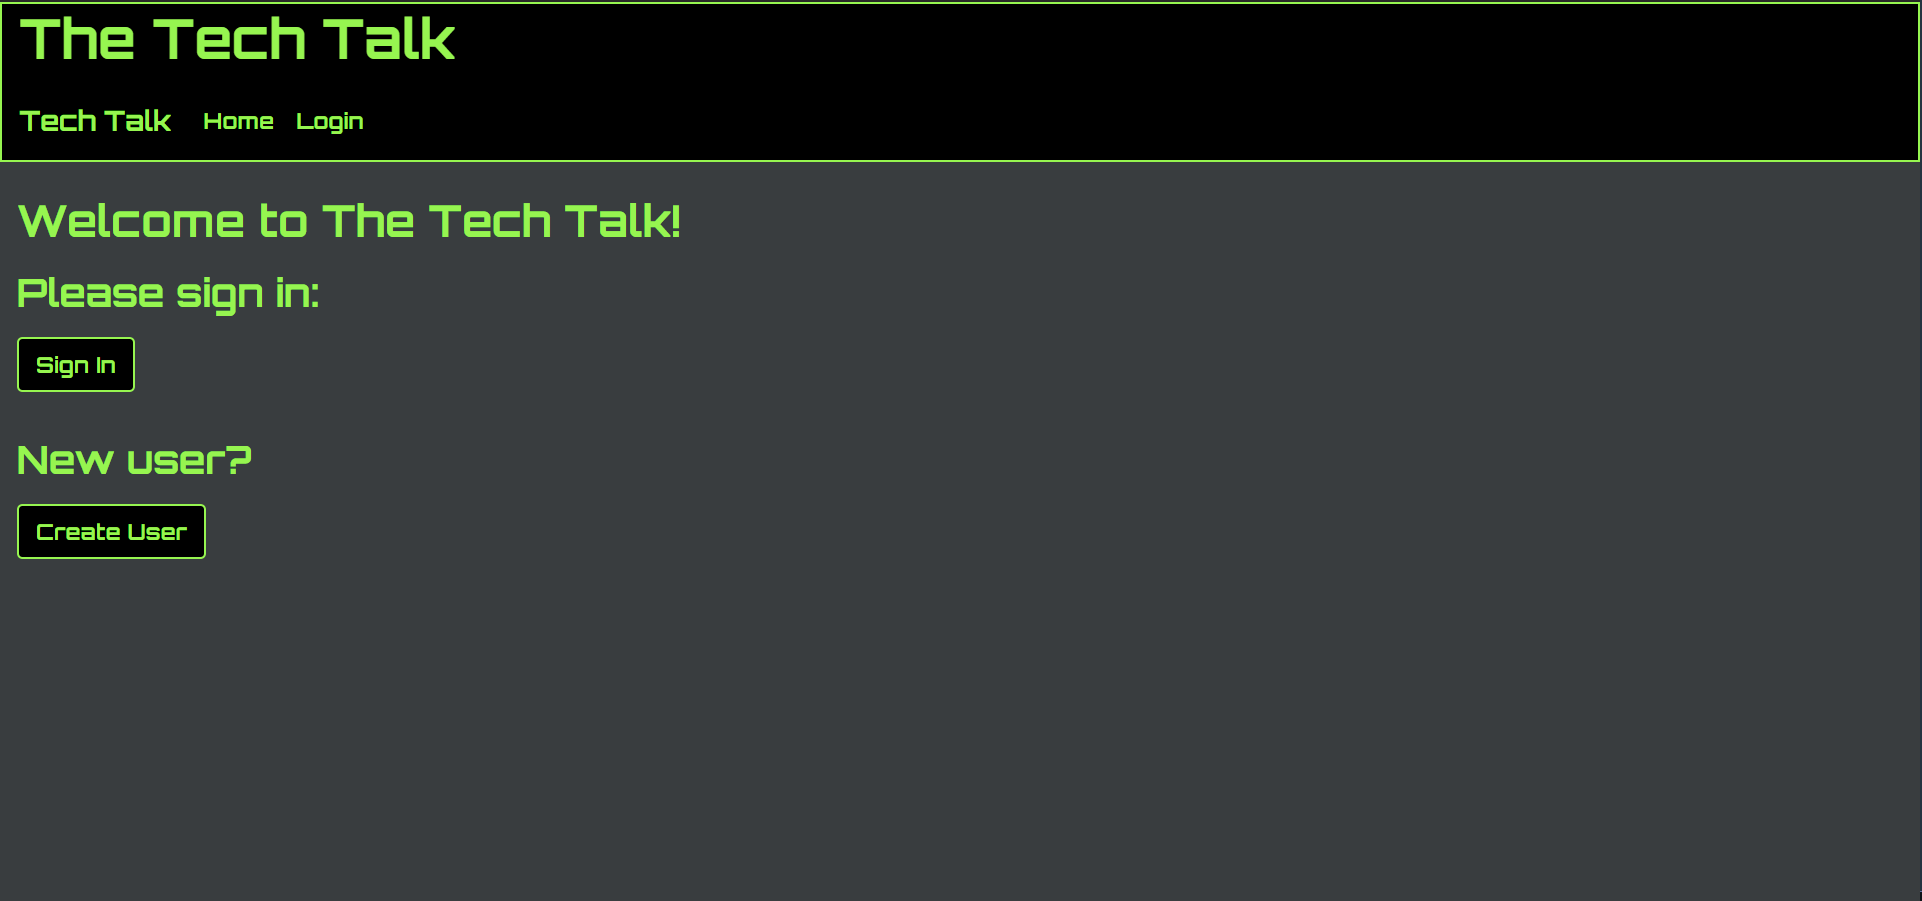
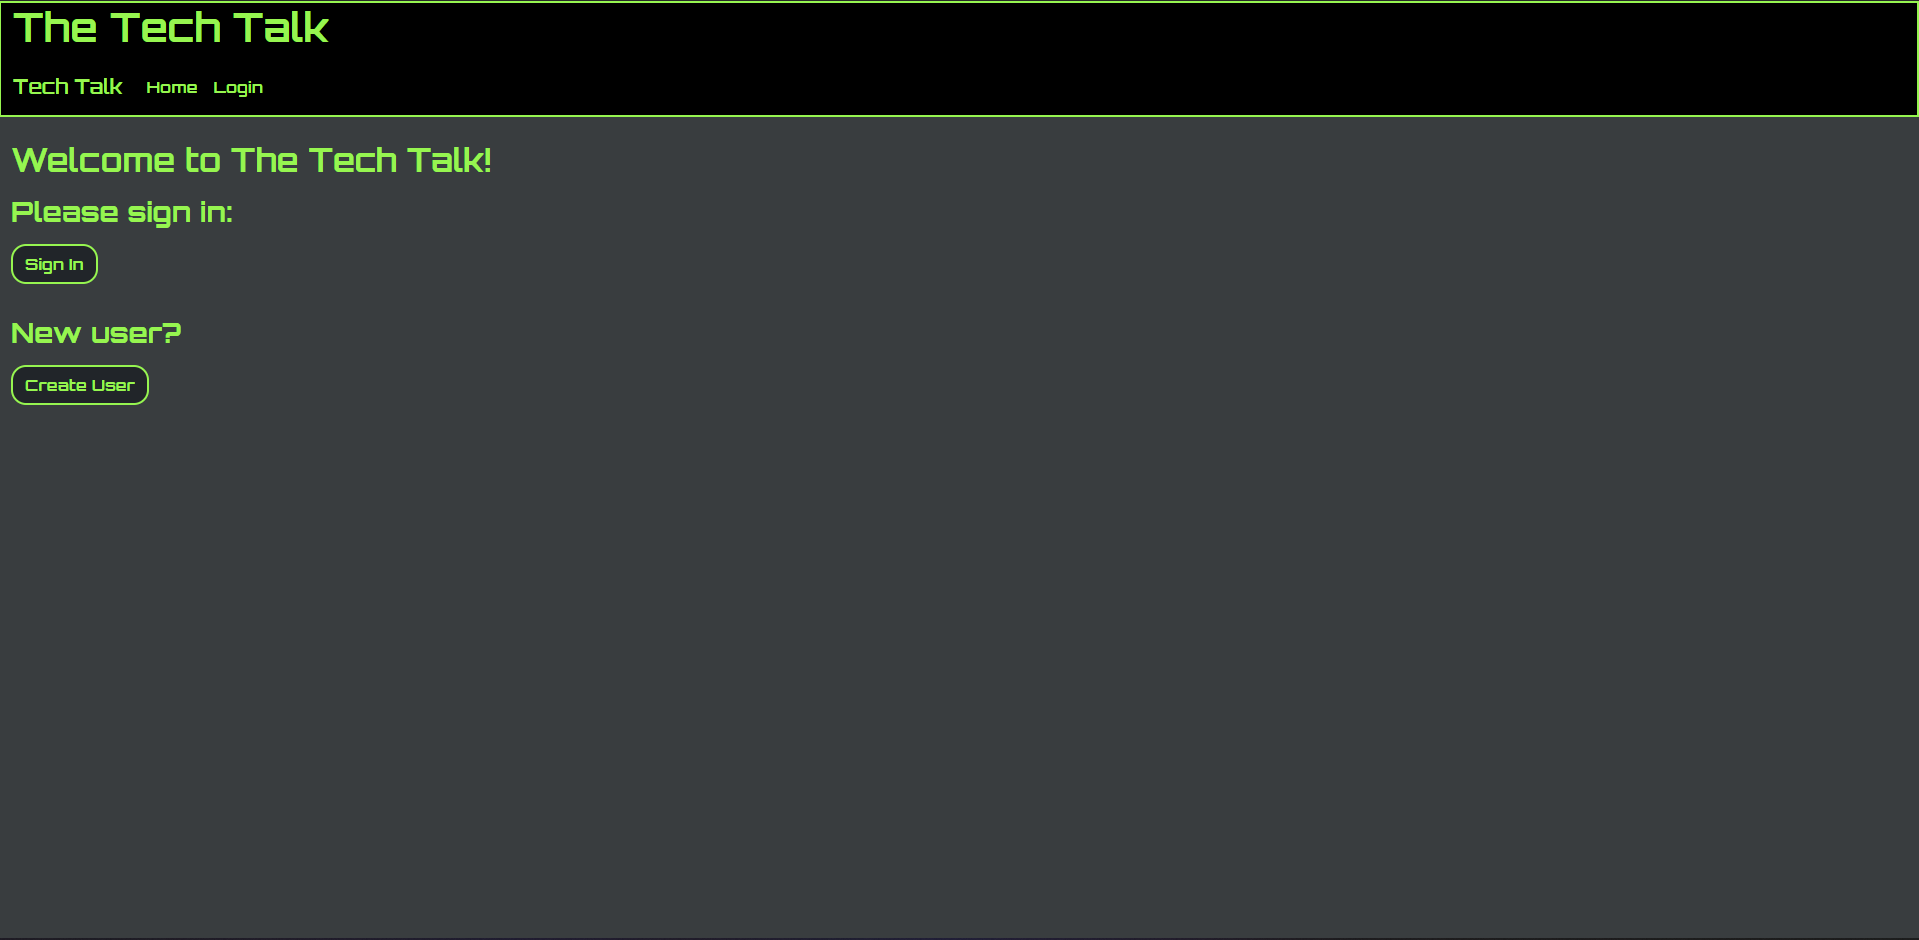
Updated readme and screenshots

diff --git a/README.md b/README.md
@@ -12,11 +12,24 @@ The purpose of this project is to build a blog-site web application that uses bo
 
 ## What to Expect From the Application
 
-The user will be able to access a live application deployed through Heroku which presents the user a blog site. User sign-up and and login is required to both create and view posts. _**THIS IS A BEGINNER APP IN PROGRESS, PLEASE DON'T INPUT PERSONAL INFORMATION!**_ 
+The user will be able to access a live application deployed through Heroku which presents the user a blog site. User sign-up and and login is required to both create and view posts.
 
 Once a user is created, they will be taken to a posts page where all existing posts will appear. To make a post, the user can click the "New Post" button and input a title and comment for submission. Other users are allowed to comment onto the post.
 
-_In the app's current state, comments can be submitted but won't be shown. This will be updated in a future release._
+## Latest Updates and New Releases
+
+* Users can now access their dashboard where all of their posts will be displayed
+* Users are able to delete and edit their posts from their dashboard
+* Posted comments will now be seen from others users
+* A "new post" button has been added to the bottom right of the Posts page for desktop resolution sizes
+* Aesthetic changes were made to the UI 
+
+## Future Releases
+
+* Allow users to edit or delete their comments on posts
+* Add ability for users to upload a profile picture
+* Show user profile picture on posts and comments
+* Enable pagination for posts
 
 ## Technologies/Methodology
 
@@ -45,7 +58,6 @@ Use the following command to copy the env example file so you can replace the va
 
 ![Blog Homepage (with login and posts)](./assets/Images/Capture2.PNG)
 
-![Individual post with a comment](./assets/Images/Capture3.PNG)
+![User dashboard where their posts are shown](./assets/Images/Capture3.PNG)
 
-
-
+![Individual post with comments](./assets/Images/Capture4.PNG)
